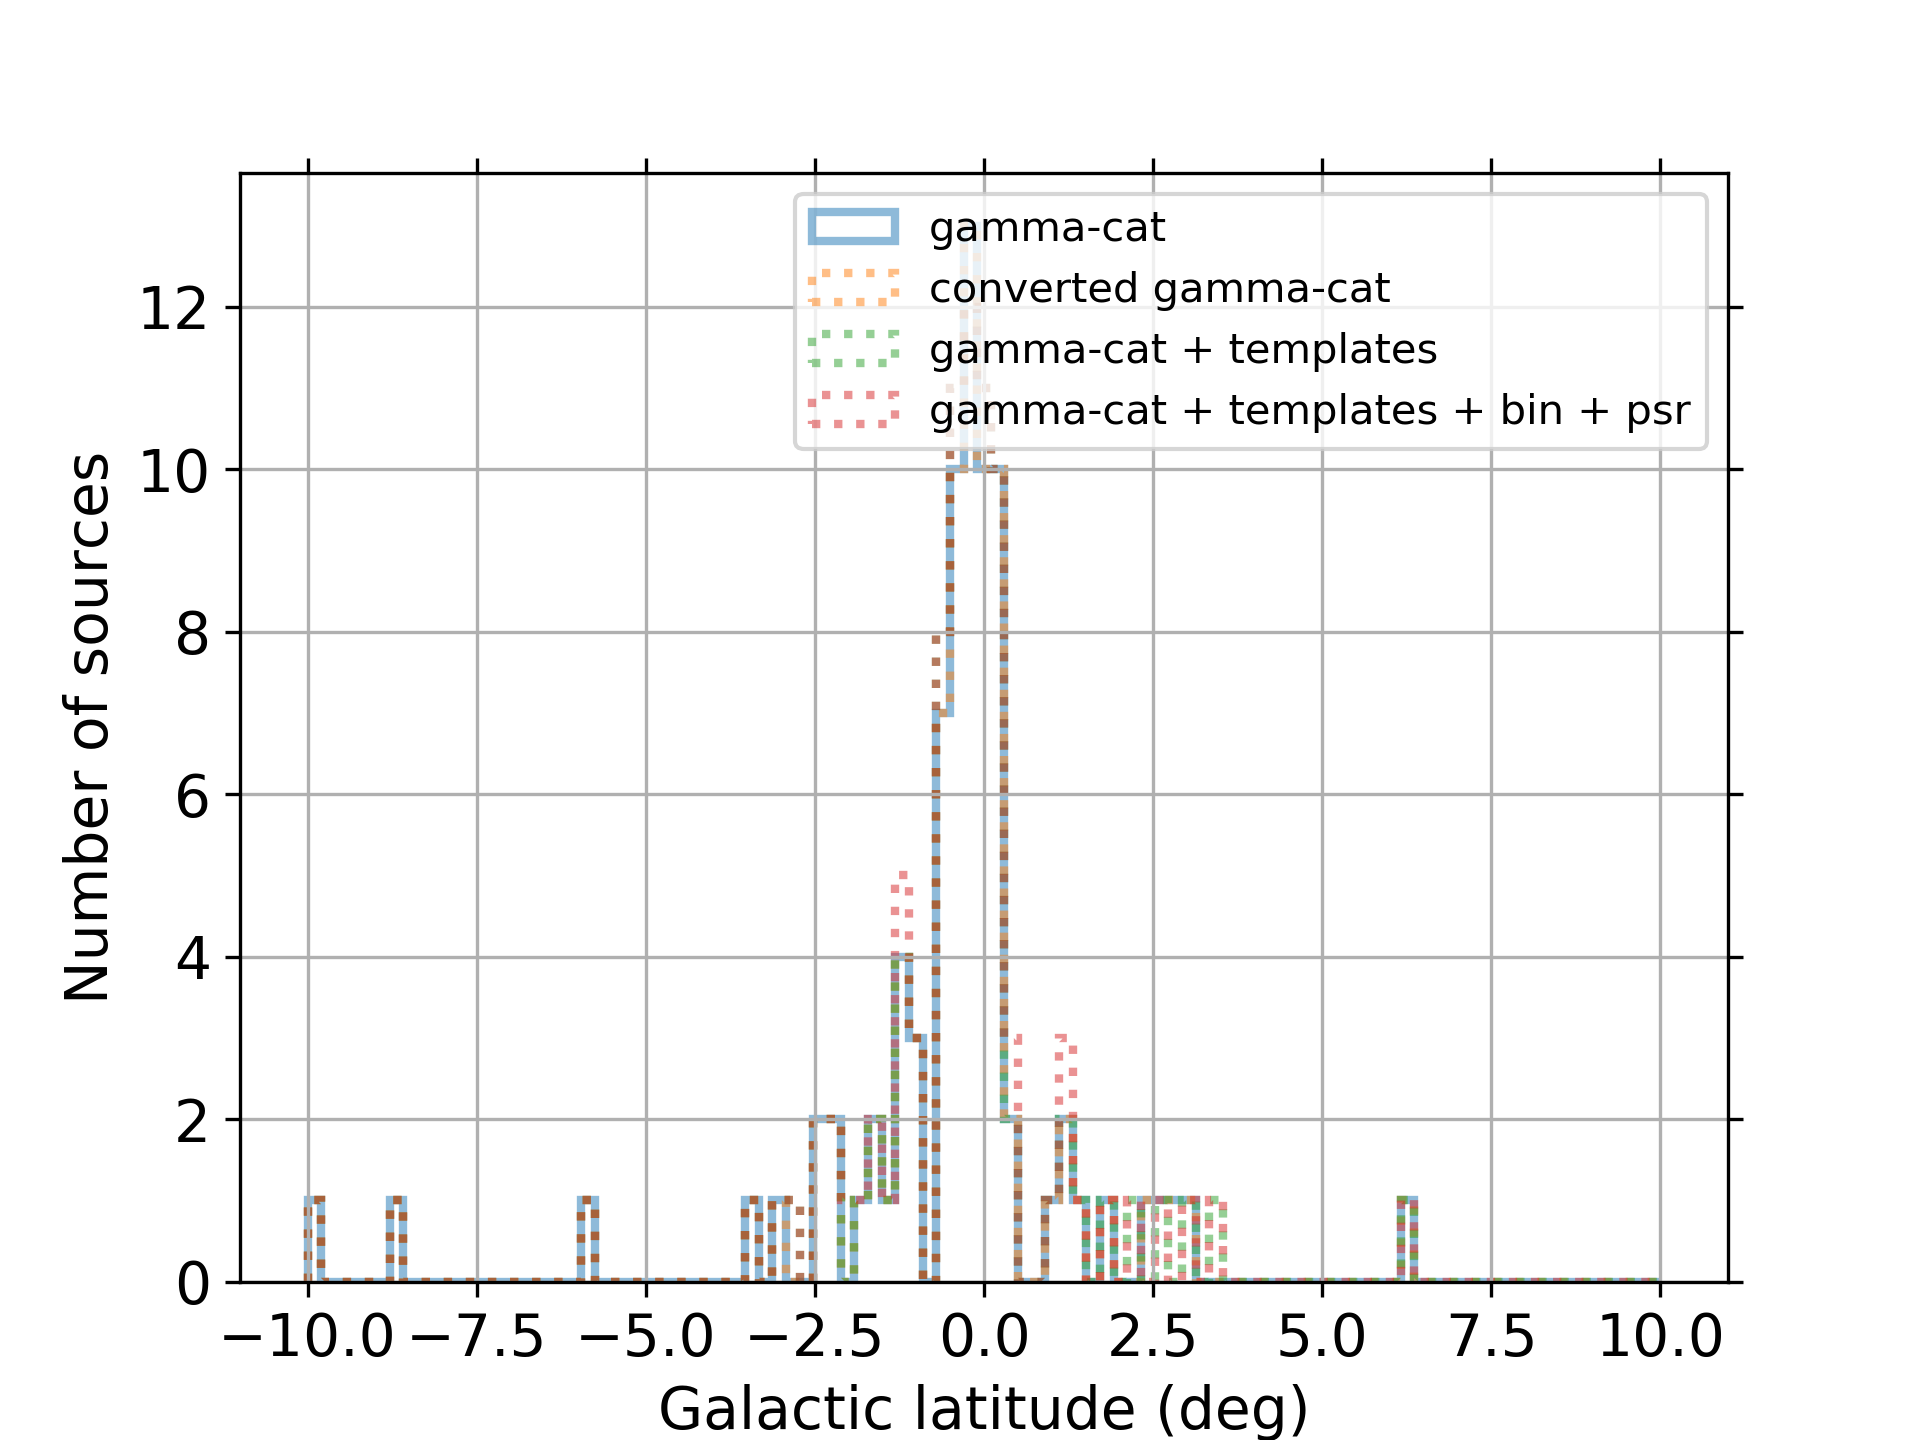
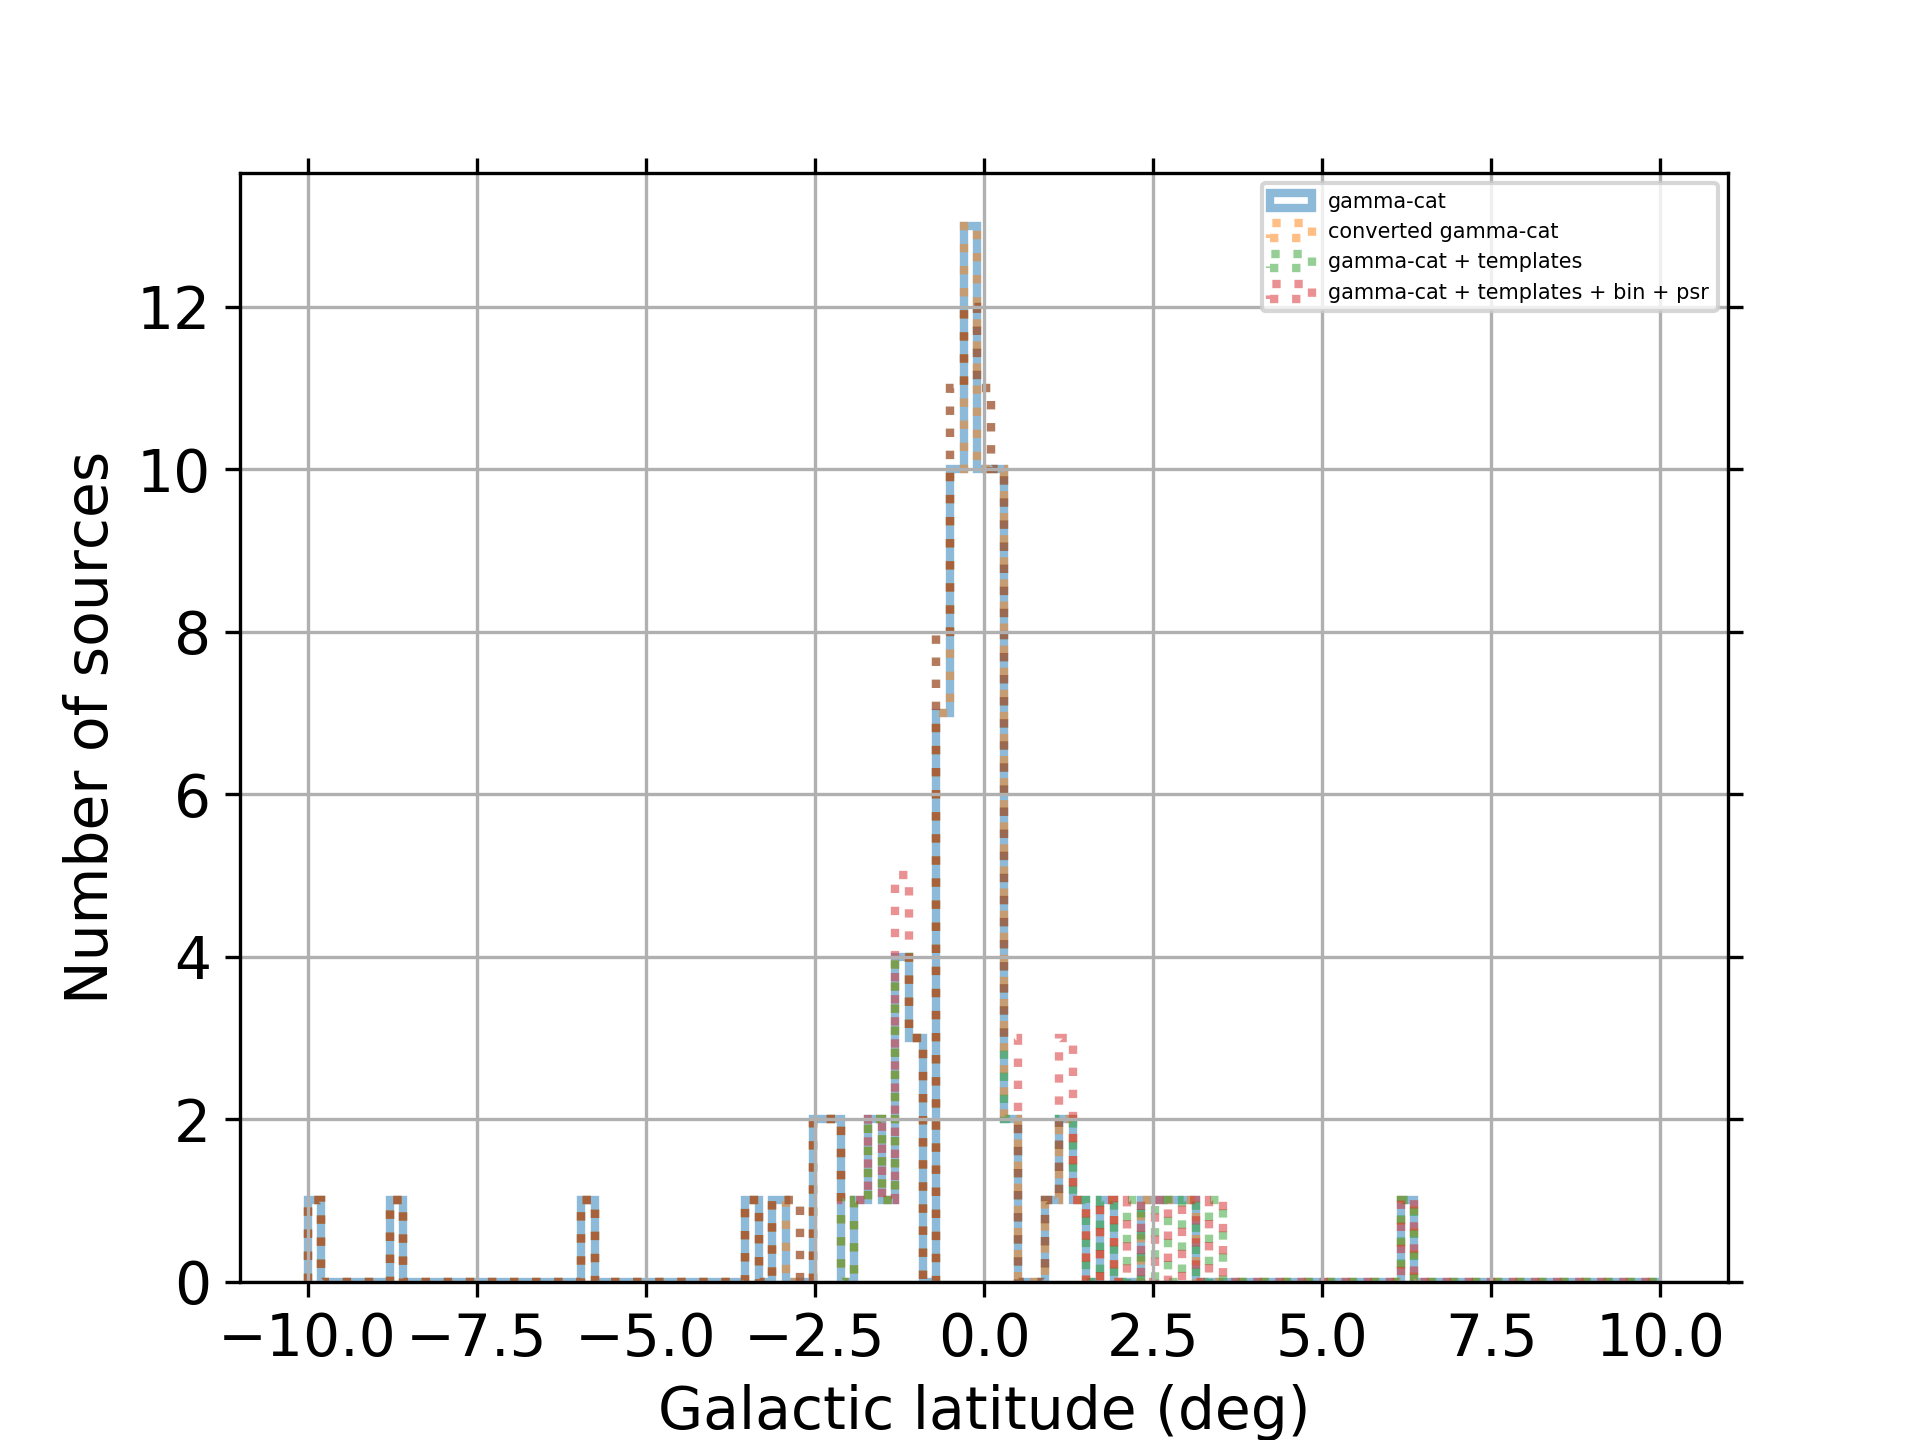
reduced plots legend size

Changed region(s): [[0.4062, 0.125, 0.9062, 0.3125]]

diff --git a/skymodel/scripts/make_model.py b/skymodel/scripts/make_model.py
@@ -338,10 +338,10 @@ print('Added background model')
 models.save('models_gps.xml')
 
 # save diagnostic plots
-ax1.legend()
+ax1.legend(fontsize=5)
 fig1.savefig('logNlogS.png', dpi=300)
-ax2.legend()
+ax2.legend(fontsize=5)
 ax2.set_xlim(180, -180)
 fig2.savefig('glon.png', dpi=300)
-ax3.legend()
+ax3.legend(fontsize=5)
 fig3.savefig('glat.png', dpi=300)
